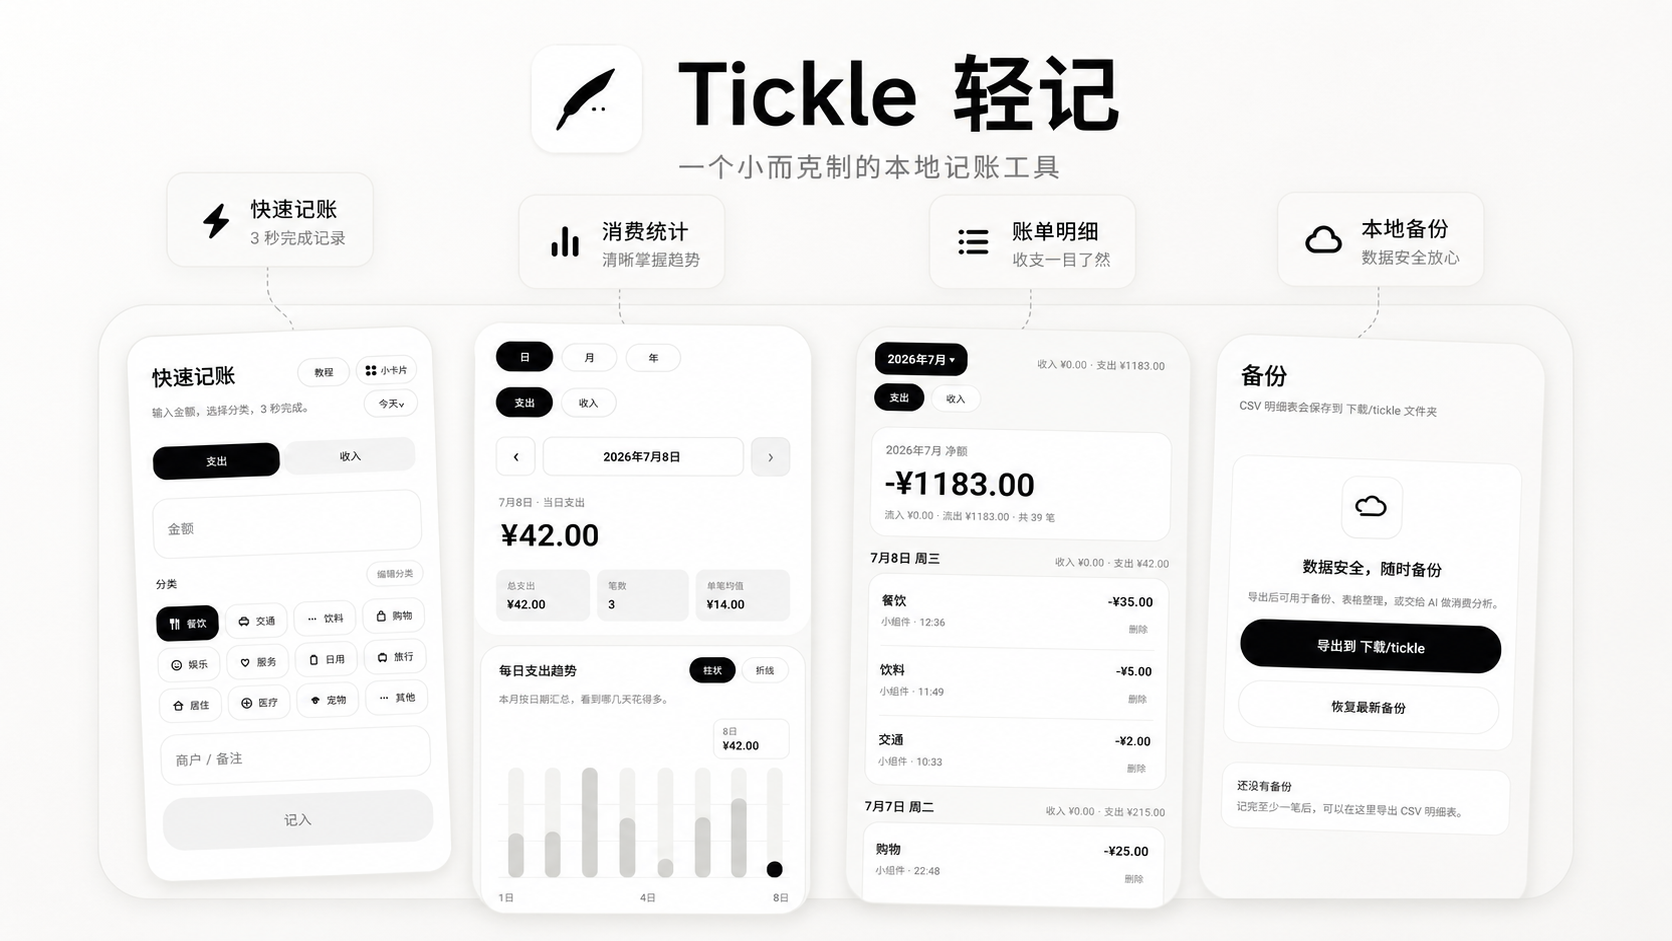
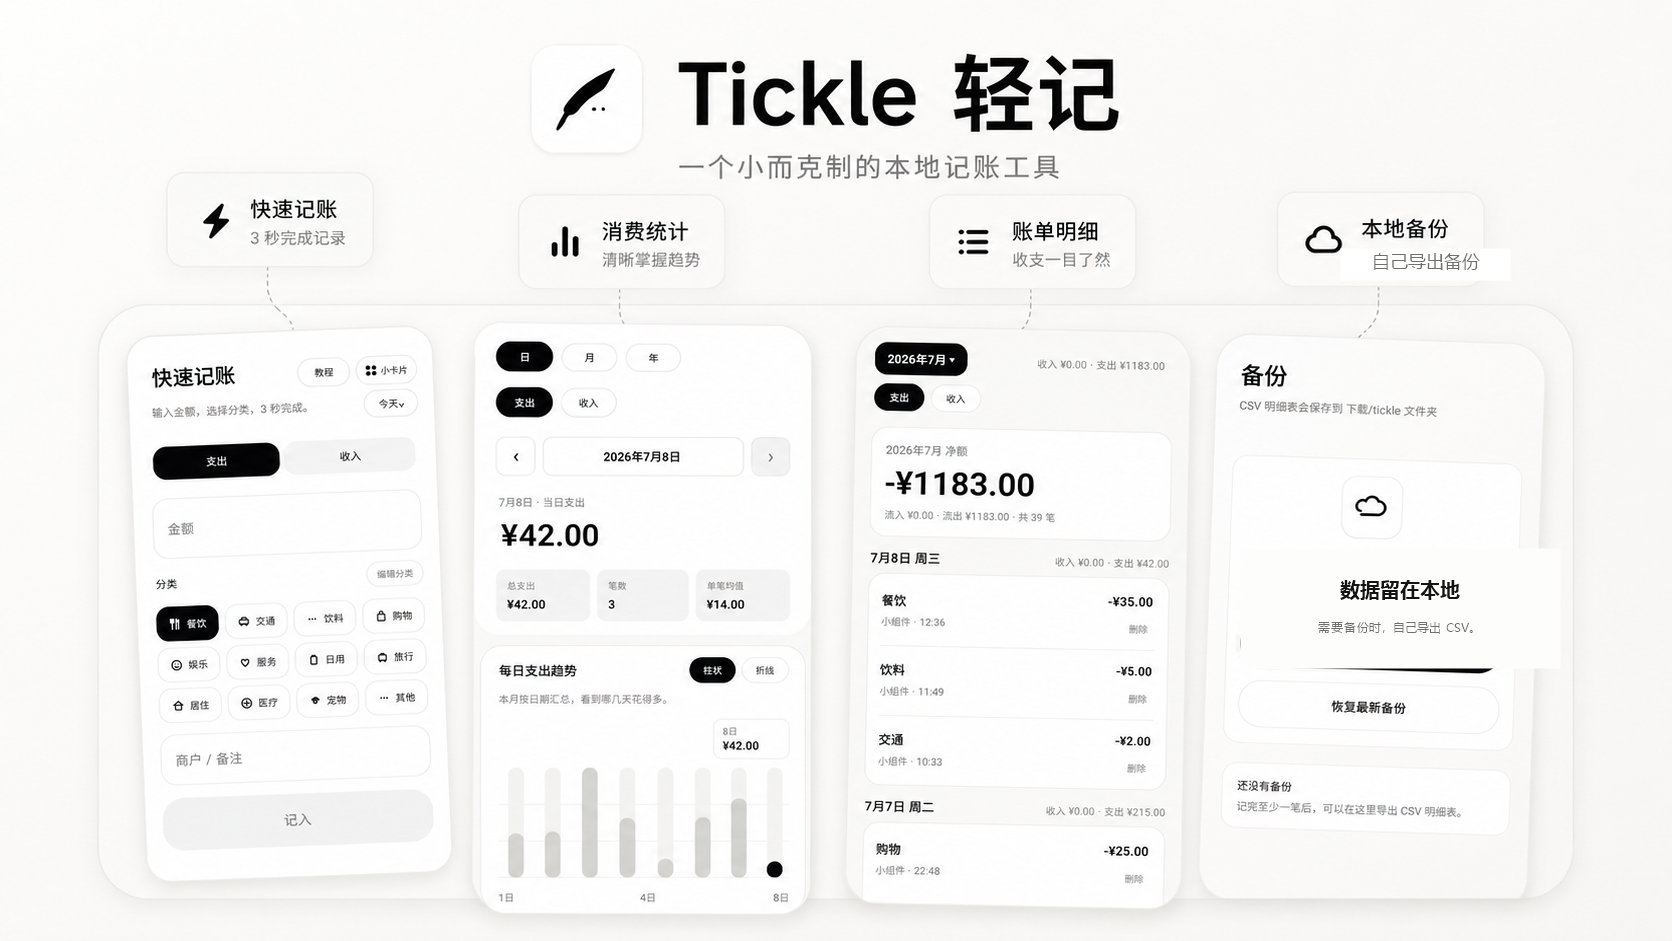
Polish README copy and formatting

Changed region(s): [[0.7464, 0.5855, 0.9019, 0.7088], [0.8086, 0.2465, 0.8708, 0.3082]]

diff --git a/docs/DEVELOPMENT.md b/docs/DEVELOPMENT.md
@@ -1,0 +1,24 @@
+# 开发说明
+
+用 Android Studio 打开项目根目录即可。
+
+如果命令行找不到 JDK 或 Android SDK，请在本机环境中配置 `JAVA_HOME`、`ANDROID_HOME` 或 Android Studio 自带的 Gradle/JDK 设置。不要把 `local.properties` 提交到仓库。
+
+构建普通版：
+
+```powershell
+.\gradlew.bat :app:assembleMainlineDebug
+```
+
+构建朋友测试版，不覆盖普通版：
+
+```powershell
+.\gradlew.bat :app:assembleFriendsDebug
+```
+
+运行单元测试：
+
+```powershell
+.\gradlew.bat :app:testMainlineDebugUnitTest
+.\gradlew.bat :app:testFriendsDebugUnitTest
+```

diff --git a/README.md b/README.md
@@ -14,7 +14,7 @@ Tickle 轻记是一个小而克制的 Android 记账工具。你只需要在 App
 
 如果你期待的是自动同步、账单识别、多账户资产分析，Tickle 轻记可能不是最合适的选择。
 
-> 目前还是中期版本，但足够稳定，适合试用和小范围测试。截图和教程图先放一版，后面可以继续换成更正式的商店素材。
+> 目前是早期体验版，核心记账、小组件、统计和 CSV 备份流程已经可用，适合试用和小范围测试。截图和教程图先放一版，后面可以继续换成更正式的商店素材。
 
 <p align="center">
   <img src="docs/screenshots/preview/feature-cards.png" width="860" alt="Tickle 轻记功能小卡片">
@@ -25,6 +25,8 @@ Tickle 轻记是一个小而克制的 Android 记账工具。你只需要在 App
 [下载 APK：tickle-v0.1.0-debug.apk](https://github.com/wangdachui886/tickle-3s-/raw/main/releases/tickle-v0.1.0-debug.apk)
 
 这个包是 debug 体验版，不是应用商店的正式签名包。Android 安装时可能会提示「未知来源」或风险提醒，这是因为还没有上架商店。
+
+后续版本会优先通过 GitHub Releases 发布。
 
 当前包名：`com.lightledger.app`
 
@@ -123,13 +125,6 @@ CSV 字段现在很少：`date`、`direction`、`amount`、`unit`、`type`、`no
 
 用 Android Studio 打开项目根目录即可。
 
-这台机器上的本地开发环境示例：
-
-```powershell
-$env:JAVA_HOME='D:\Andriod Studio\jbr'
-$env:PATH="$env:JAVA_HOME\bin;$env:PATH"
-```
-
 构建普通版：
 
 ```powershell
@@ -150,6 +145,8 @@ $env:PATH="$env:JAVA_HOME\bin;$env:PATH"
 ```
 
 更多结构说明见 [docs/PROJECT_STRUCTURE.md](docs/PROJECT_STRUCTURE.md)，发布前检查见 [docs/RELEASE_CHECKLIST.md](docs/RELEASE_CHECKLIST.md)。
+
+本地环境和开发说明见 [docs/DEVELOPMENT.md](docs/DEVELOPMENT.md)。
 
 ## 版本
 